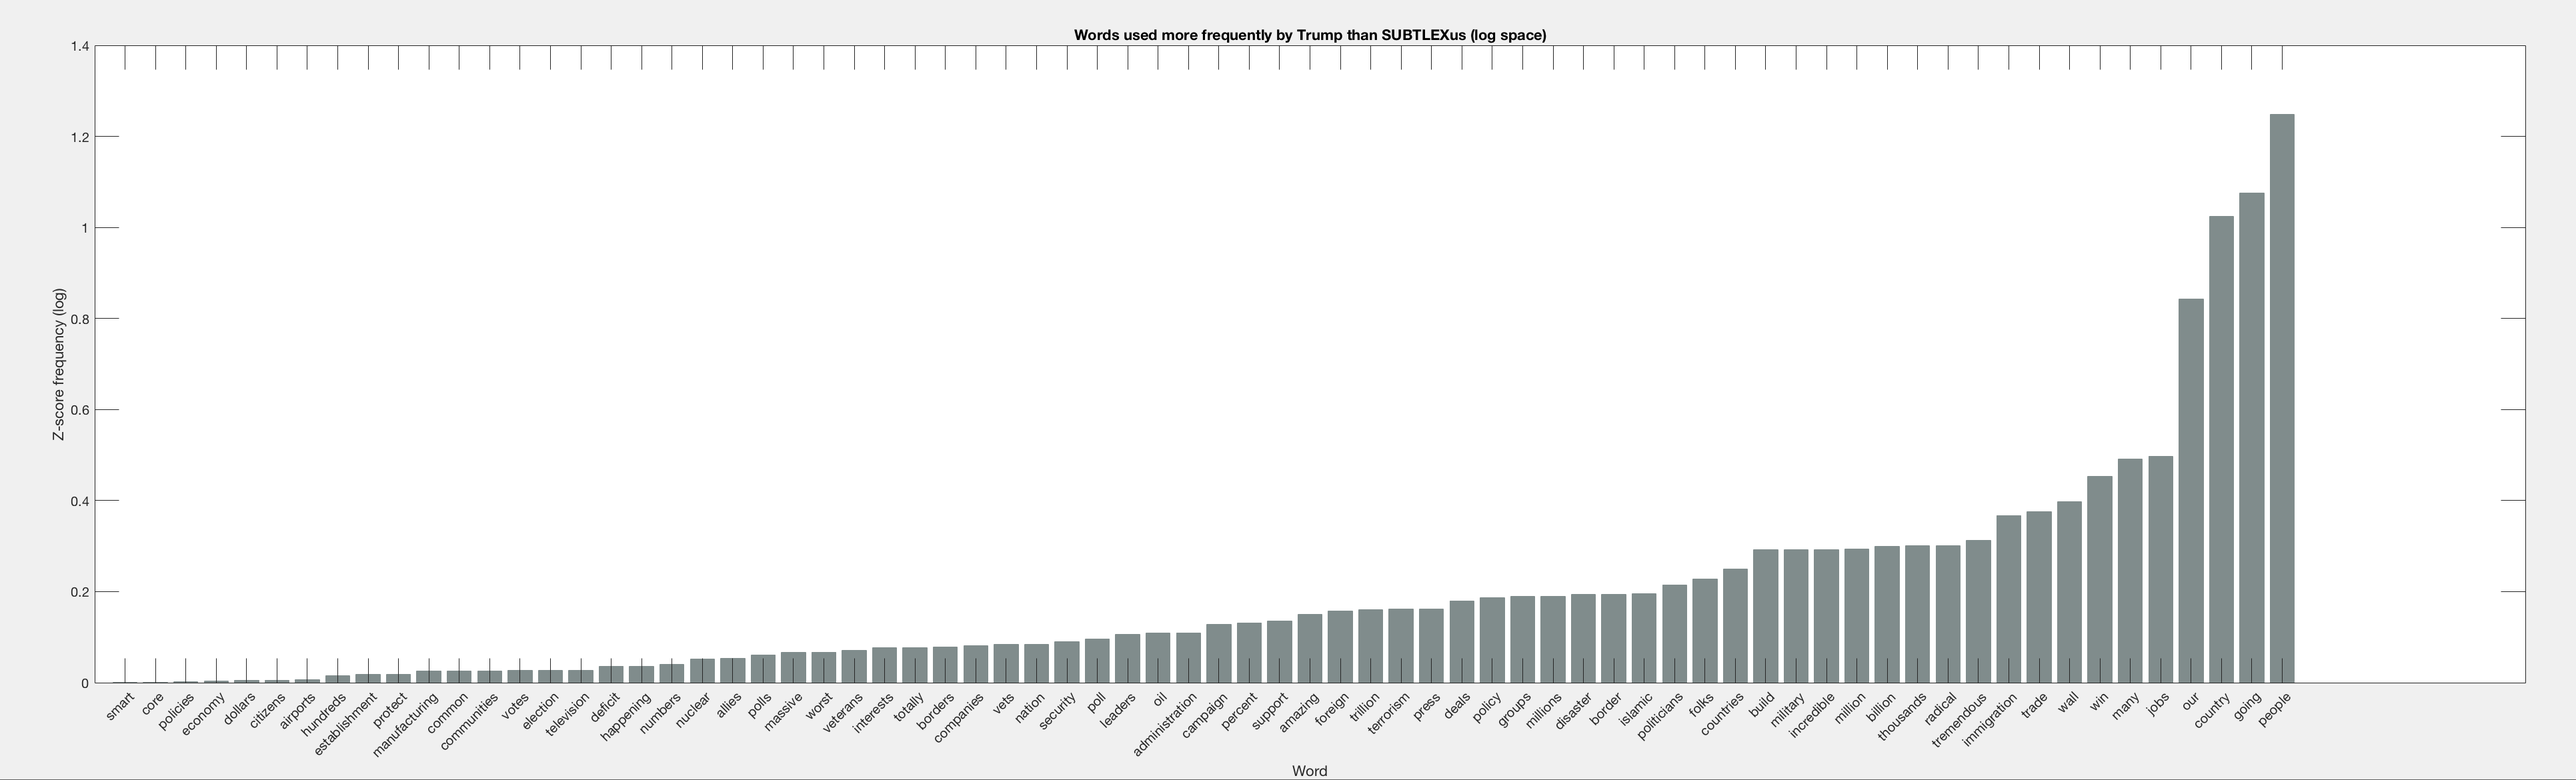
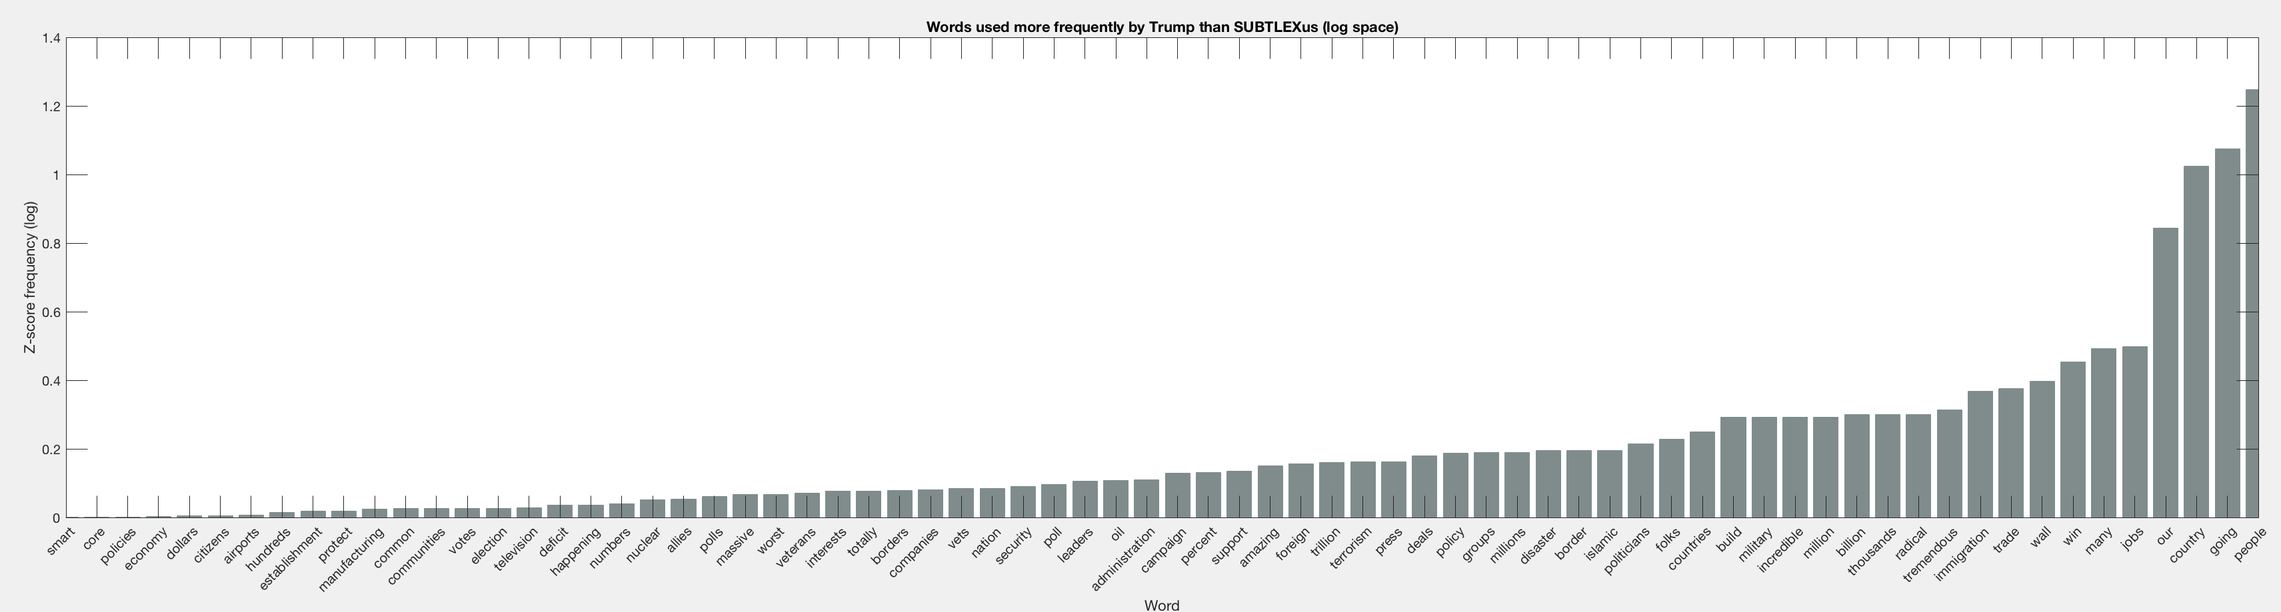
better graph

diff --git a/Extract frequencies SUBTLEXus/GetStatistics.m b/Extract frequencies SUBTLEXus/GetStatistics.m
@@ -40,6 +40,7 @@ unique_tokens = unique_tokens(difference > 0);
 difference = difference(difference > 0);
 bar(log(difference+1),'FaceColor',[50 55 55]./100,'EdgeColor',[50 55 55]./100);
 set(gca,'xtick',1:numel(unique_tokens));
+xlim([1 numel(unique_tokens)]);
 set(gca,'xticklabel',unique_tokens);
 xtickangle(45);
 
